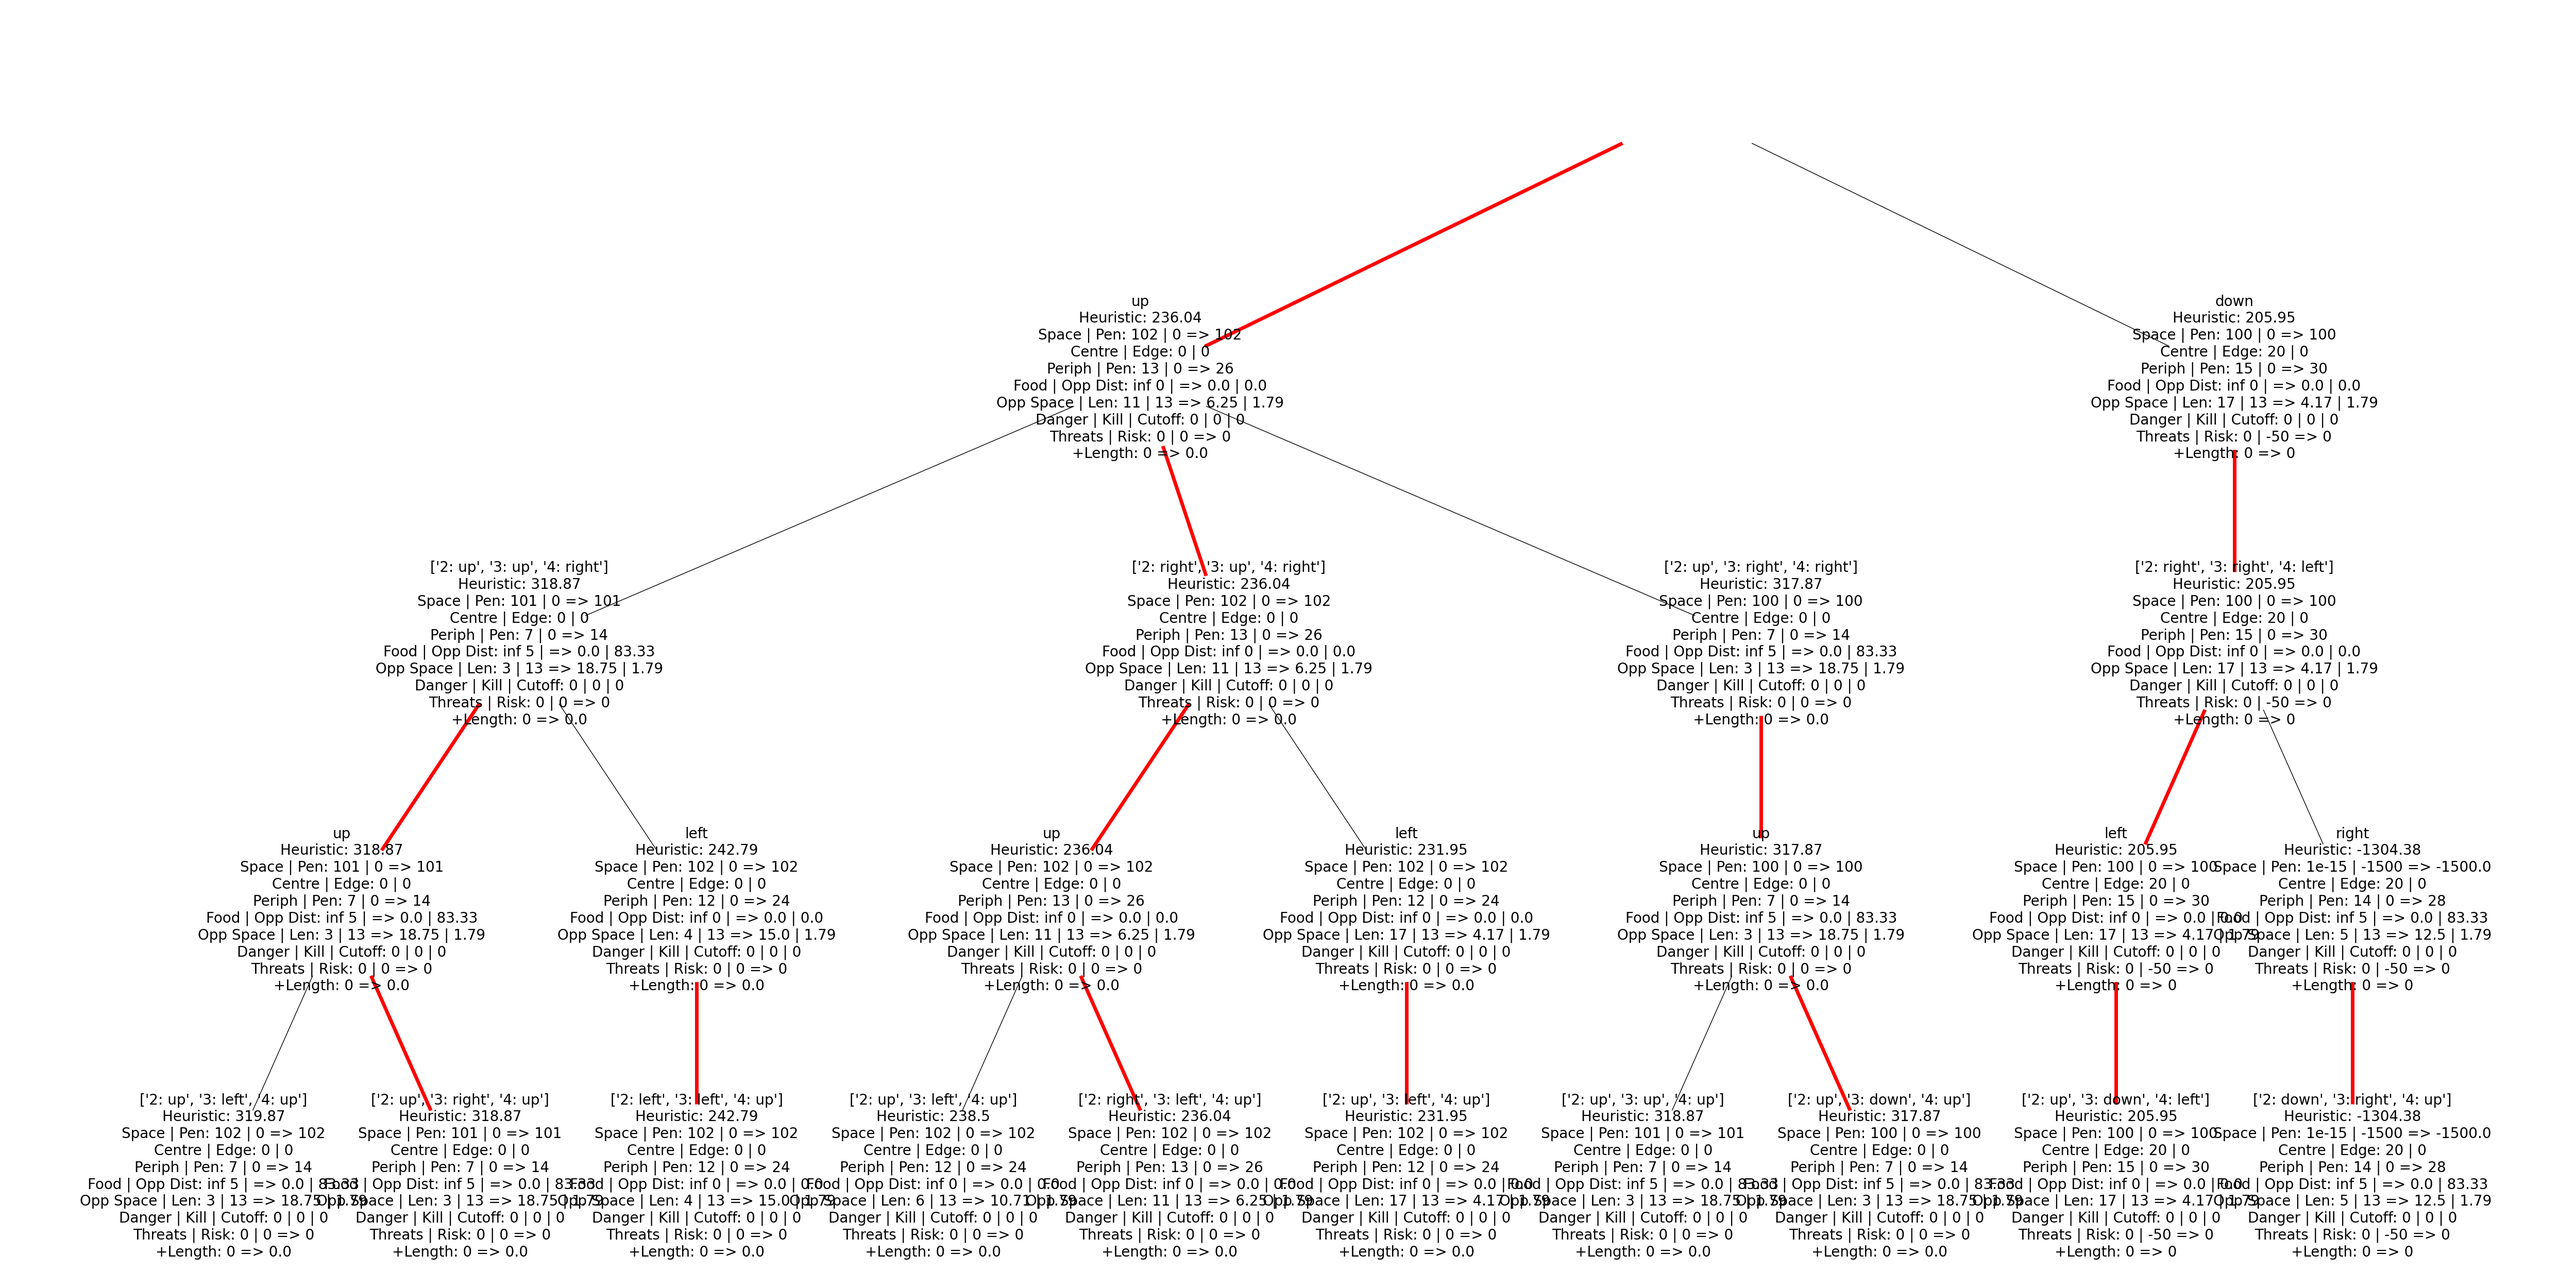
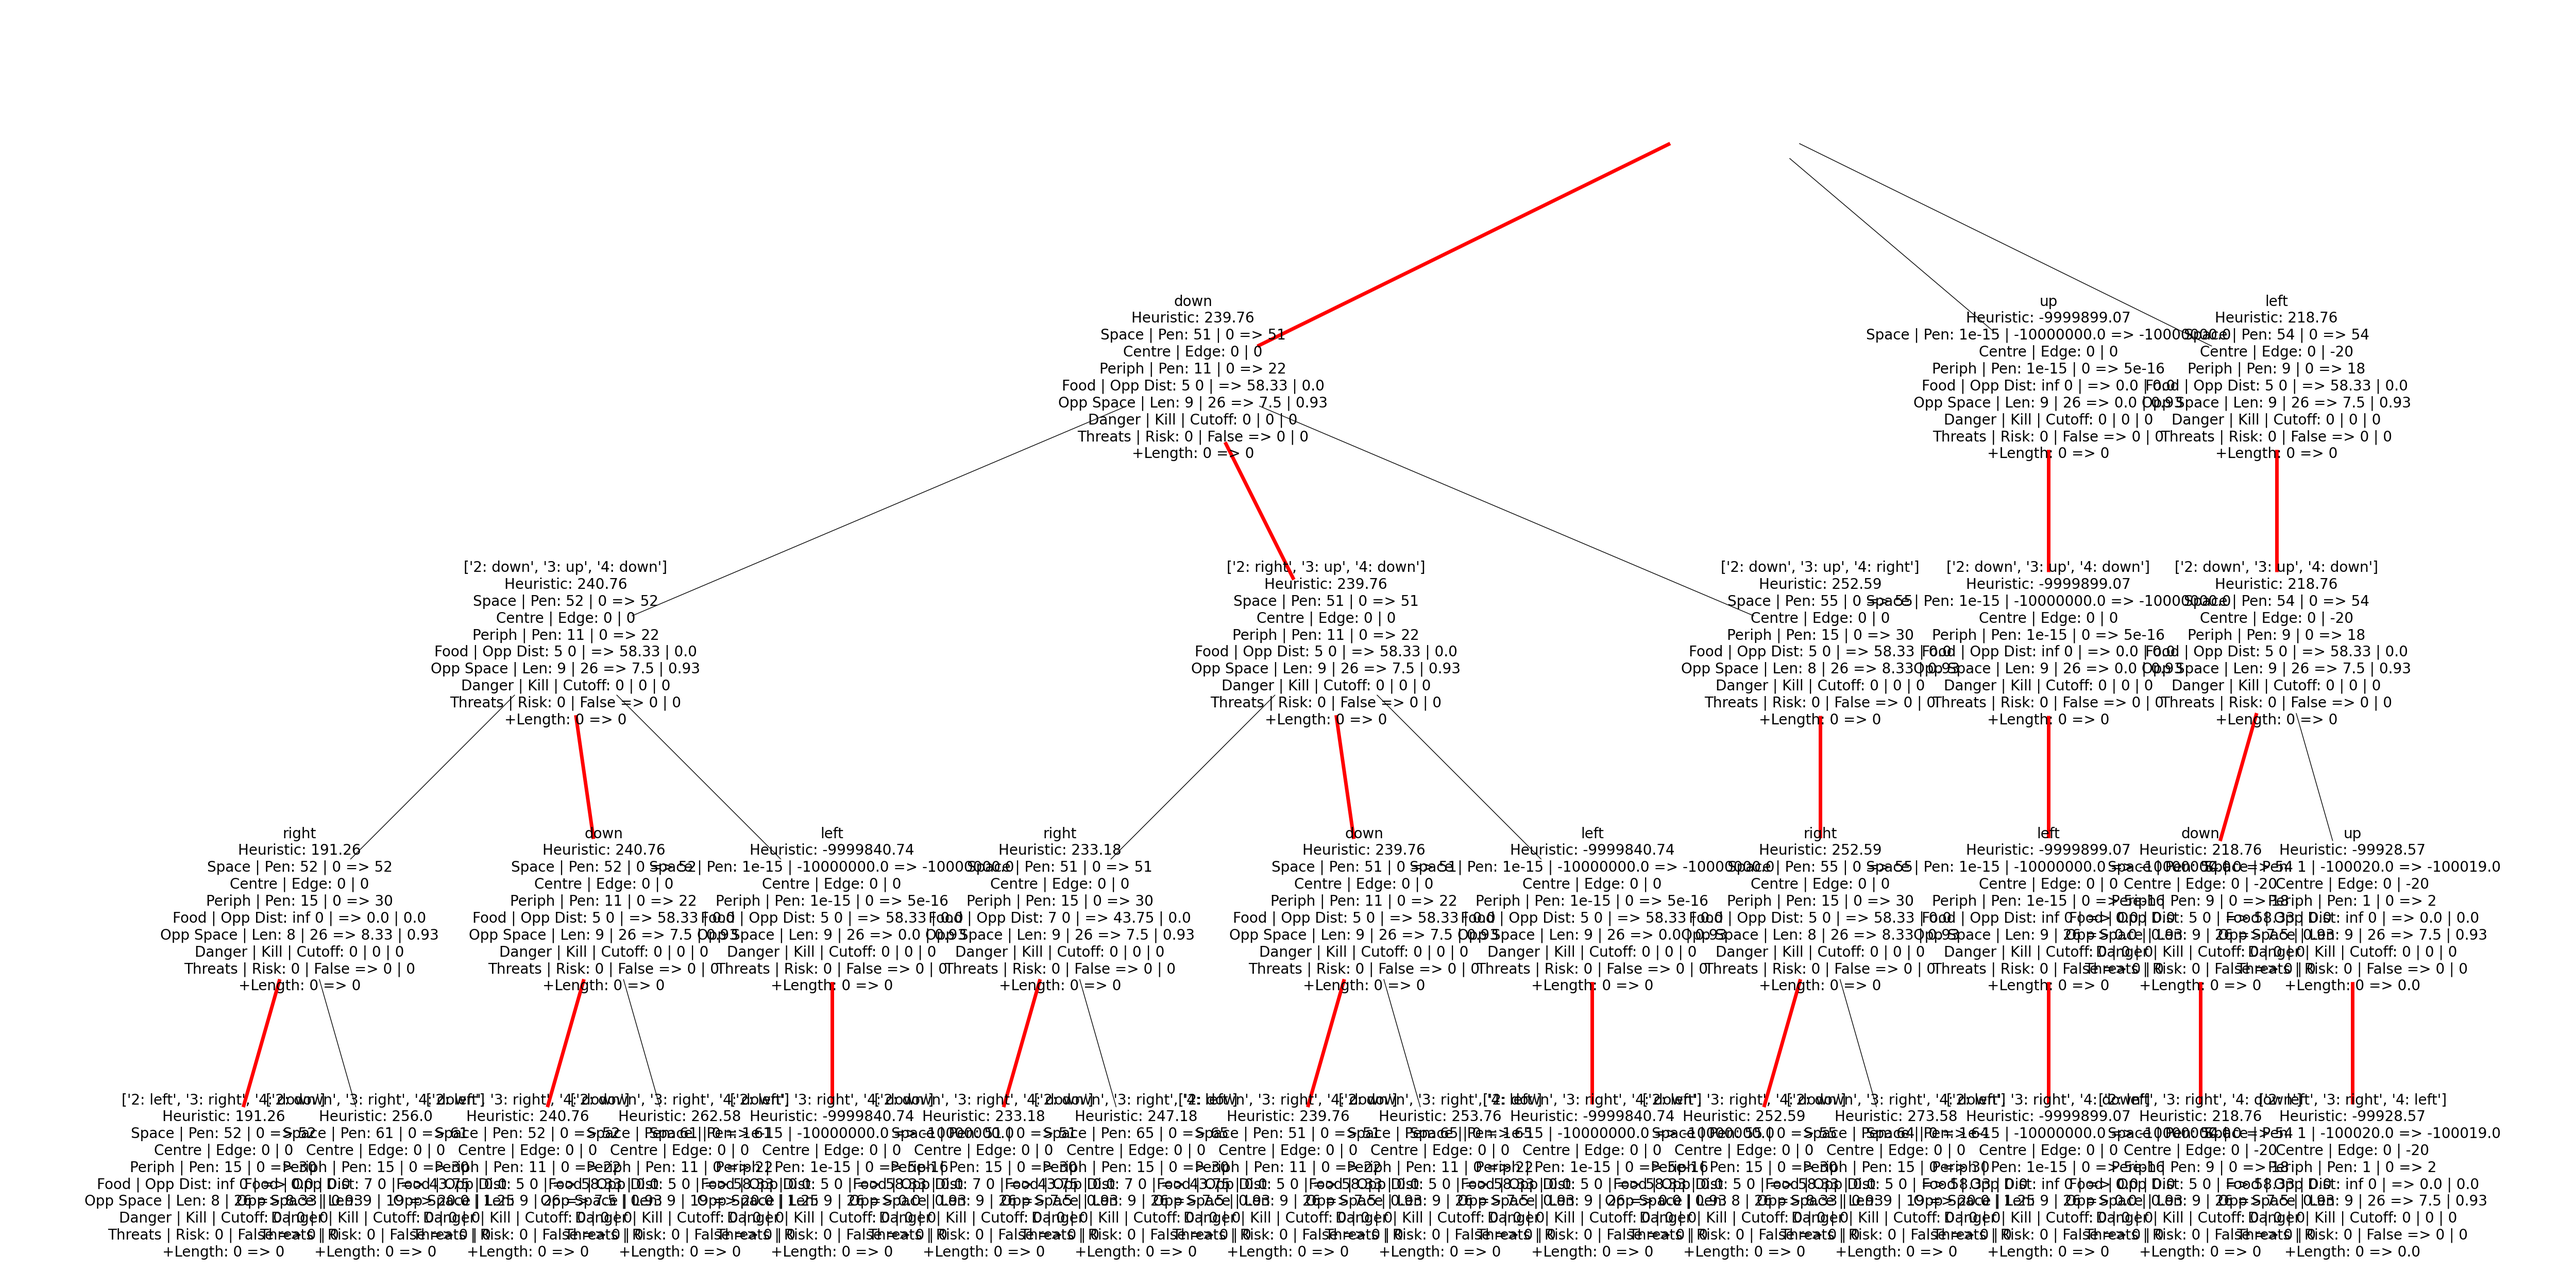
Royale improvements

diff --git a/debugging.py b/debugging.py
@@ -70,6 +70,10 @@ game_state = {"game":{"id":"336d94a2-bea3-4d53-906b-d71364abc623","ruleset":{"na
 # getting stuck and trapped
 game_state = {"game":{"id":"6afe9a7d-983f-4295-9dec-8391324cc487","ruleset":{"name":"standard","version":"?","settings":{"foodSpawnChance":15,"minimumFood":1}},"map":"standard","timeout":500,"source":"ladder"},"turn":81,"board":{"width":11,"height":11,"food":[{"x":2,"y":0},{"x":6,"y":4}],"hazards":[],"snakes":[{"id":"gs_MpPCGFy4rv8QHkyRvBYc6RKM","name":"Kakemonsteret-v2","health":93,"body":[{"x":5,"y":4},{"x":5,"y":5},{"x":5,"y":6},{"x":5,"y":7},{"x":5,"y":8},{"x":5,"y":9},{"x":6,"y":9},{"x":7,"y":9},{"x":7,"y":8},{"x":8,"y":8},{"x":8,"y":9},{"x":9,"y":9},{"x":9,"y":8},{"x":9,"y":7}],"latency":59,"head":{"x":5,"y":4},"length":14,"shout":"","squad":"","customizations":{"color":"#9400d3","head":"default","tail":"default"}},{"id":"gs_6S8tJK8vBhWCbKkJQSyMGD6d","name":"Lancer","health":88,"body":[{"x":2,"y":5},{"x":2,"y":6},{"x":2,"y":7},{"x":2,"y":8},{"x":3,"y":8},{"x":4,"y":8},{"x":4,"y":7},{"x":3,"y":7},{"x":3,"y":6},{"x":3,"y":5}],"latency":454,"head":{"x":2,"y":5},"length":10,"shout":"","squad":"","customizations":{"color":"#3d5a80","head":"nr-rocket","tail":"comet"}},{"id":"gs_Jdv9WSm79yR6k3ckSY8dR3C8","name":"Nightwing","health":100,"body":[{"x":9,"y":2},{"x":8,"y":2},{"x":8,"y":3},{"x":9,"y":3},{"x":10,"y":3},{"x":10,"y":4},{"x":9,"y":4},{"x":9,"y":4}],"latency":391,"head":{"x":9,"y":2},"length":8,"shout":"","squad":"","customizations":{"color":"#1f51ff","head":"workout","tail":"curled"}},{"id":"gs_B8cJpwXYhFDtR8JqYdq8RFJ9","name":"Hovering Hobbs","health":66,"body":[{"x":1,"y":4},{"x":2,"y":4},{"x":2,"y":3},{"x":3,"y":3},{"x":4,"y":3}],"latency":361,"head":{"x":1,"y":4},"length":5,"shout":"","squad":"","customizations":{"color":"#da8a1a","head":"beach-puffin-special","tail":"beach-puffin-special"}}]},"you":{"id":"gs_Jdv9WSm79yR6k3ckSY8dR3C8","name":"Nightwing","health":100,"body":[{"x":9,"y":2},{"x":8,"y":2},{"x":8,"y":3},{"x":9,"y":3},{"x":10,"y":3},{"x":10,"y":4},{"x":9,"y":4},{"x":9,"y":4}],"latency":391,"head":{"x":9,"y":2},"length":8,"shout":"","squad":"","customizations":{"color":"#1f51ff","head":"workout","tail":"curled"}}}
 game_state = {"game":{"id":"b8bb01da-a8ae-4f33-8761-6605401de054","ruleset":{"name":"standard","version":"?","settings":{"foodSpawnChance":15,"minimumFood":1}},"map":"standard","timeout":500,"source":"ladder"},"turn":224,"board":{"width":11,"height":11,"food":[{"x":1,"y":10},{"x":2,"y":10},{"x":10,"y":6},{"x":2,"y":4}],"hazards":[],"snakes":[{"id":"gs_VT636Gtj7tvjprc4Y64KJhB8","name":"Kakemonsteret-v2","health":90,"body":[{"x":8,"y":6},{"x":7,"y":6},{"x":7,"y":7},{"x":7,"y":8},{"x":6,"y":8},{"x":6,"y":7},{"x":6,"y":6},{"x":6,"y":5},{"x":6,"y":4},{"x":6,"y":3},{"x":6,"y":2},{"x":6,"y":1},{"x":7,"y":1},{"x":7,"y":2},{"x":7,"y":3},{"x":7,"y":4},{"x":7,"y":5},{"x":8,"y":5},{"x":8,"y":4}],"latency":49,"head":{"x":8,"y":6},"length":19,"shout":"","squad":"","customizations":{"color":"#9400d3","head":"default","tail":"default"}},{"id":"gs_DRSdKvxHbpYrGj87wjqkh6xH","name":"Nightwing","health":86,"body":[{"x":9,"y":3},{"x":10,"y":3},{"x":10,"y":2},{"x":10,"y":1},{"x":10,"y":0},{"x":9,"y":0},{"x":8,"y":0},{"x":7,"y":0},{"x":6,"y":0},{"x":5,"y":0},{"x":5,"y":1},{"x":4,"y":1},{"x":3,"y":1},{"x":3,"y":0},{"x":2,"y":0},{"x":2,"y":1},{"x":2,"y":2},{"x":3,"y":2}],"latency":168,"head":{"x":9,"y":3},"length":18,"shout":"","squad":"","customizations":{"color":"#1f51ff","head":"workout","tail":"curled"}},{"id":"gs_8PqSvGdW3FbPtyTCFHY3Vht3","name":"Hovering Hobbs","health":75,"body":[{"x":4,"y":4},{"x":4,"y":5},{"x":4,"y":6},{"x":4,"y":7},{"x":3,"y":7},{"x":2,"y":7},{"x":2,"y":8},{"x":2,"y":9}],"latency":368,"head":{"x":4,"y":4},"length":8,"shout":"","squad":"","customizations":{"color":"#da8a1a","head":"beach-puffin-special","tail":"beach-puffin-special"}}]},"you":{"id":"gs_DRSdKvxHbpYrGj87wjqkh6xH","name":"Nightwing","health":86,"body":[{"x":9,"y":3},{"x":10,"y":3},{"x":10,"y":2},{"x":10,"y":1},{"x":10,"y":0},{"x":9,"y":0},{"x":8,"y":0},{"x":7,"y":0},{"x":6,"y":0},{"x":5,"y":0},{"x":5,"y":1},{"x":4,"y":1},{"x":3,"y":1},{"x":3,"y":0},{"x":2,"y":0},{"x":2,"y":1},{"x":2,"y":2},{"x":3,"y":2}],"latency":168,"head":{"x":9,"y":3},"length":18,"shout":"","squad":"","customizations":{"color":"#1f51ff","head":"workout","tail":"curled"}}}
+
+
+# ROYALE
+game_state = {"game":{"id":"f25293a7-6e5e-4101-9f37-ec25f931c627","ruleset":{"name":"standard","version":"?","settings":{"foodSpawnChance":15,"minimumFood":1,"hazardDamagePerTurn":14}},"map":"royale","timeout":500,"source":"ladder"},"turn":70,"board":{"width":11,"height":11,"food":[{"x":0,"y":0},{"x":6,"y":4}],"hazards":[{"x":0,"y":0},{"x":0,"y":1},{"x":0,"y":2},{"x":0,"y":3},{"x":0,"y":4},{"x":0,"y":5},{"x":0,"y":6},{"x":0,"y":7},{"x":0,"y":8},{"x":0,"y":9},{"x":0,"y":10},{"x":1,"y":0},{"x":2,"y":0},{"x":3,"y":0},{"x":4,"y":0},{"x":5,"y":0},{"x":6,"y":0},{"x":7,"y":0},{"x":8,"y":0},{"x":9,"y":0},{"x":10,"y":0}],"snakes":[{"id":"gs_WmfCgFmd4RV4Ymj9QBbhqbh8","name":"Nightwing","health":62,"body":[{"x":1,"y":5},{"x":2,"y":5},{"x":2,"y":6},{"x":3,"y":6},{"x":3,"y":7},{"x":4,"y":7},{"x":5,"y":7}],"latency":209,"head":{"x":1,"y":5},"length":7,"shout":"","squad":"","customizations":{"color":"#1f51ff","head":"workout","tail":"curled"}},{"id":"gs_8W63jC6YhWxHHvTD6XxxXXkW","name":"soma-mini[sink]","health":82,"body":[{"x":6,"y":2},{"x":5,"y":2},{"x":5,"y":3},{"x":6,"y":3},{"x":7,"y":3},{"x":8,"y":3},{"x":8,"y":4}],"latency":426,"head":{"x":6,"y":2},"length":7,"shout":"413","squad":"","customizations":{"color":"#ff0055","head":"snail","tail":"fat-rattle"}},{"id":"gs_MDcft6d6dk6dGyBpYXcS33tG","name":"Hovering Hobbs","health":64,"body":[{"x":0,"y":8},{"x":0,"y":7},{"x":1,"y":7},{"x":1,"y":8},{"x":2,"y":8},{"x":2,"y":9}],"latency":356,"head":{"x":0,"y":8},"length":6,"shout":"","squad":"","customizations":{"color":"#da8a1a","head":"beach-puffin-special","tail":"beach-puffin-special"}},{"id":"gs_WMF66jGVJRTvVXWg4xVHjmVT","name":"Kakemonsteret-v2","health":100,"body":[{"x":9,"y":7},{"x":8,"y":7},{"x":7,"y":7},{"x":6,"y":7},{"x":6,"y":8},{"x":5,"y":8},{"x":5,"y":9},{"x":5,"y":10},{"x":6,"y":10},{"x":7,"y":10},{"x":8,"y":10},{"x":8,"y":9},{"x":8,"y":9}],"latency":54,"head":{"x":9,"y":7},"length":13,"shout":"","squad":"","customizations":{"color":"#9400d3","head":"default","tail":"default"}}]},"you":{"id":"gs_WmfCgFmd4RV4Ymj9QBbhqbh8","name":"Nightwing","health":62,"body":[{"x":1,"y":5},{"x":2,"y":5},{"x":2,"y":6},{"x":3,"y":6},{"x":3,"y":7},{"x":4,"y":7},{"x":5,"y":7}],"latency":209,"head":{"x":1,"y":5},"length":7,"shout":"","squad":"","customizations":{"color":"#1f51ff","head":"workout","tail":"curled"}}}
 b = Battlesnake(game_state, debugging=True, local=True)
 clock_in = time.time_ns()
 print(f"\nBest move: {b.optimal_move()}")

diff --git a/tests/test_edge_cases.py b/tests/test_edge_cases.py
@@ -332,6 +332,12 @@ def test_risk_averse():
 #     next_move = Battlesnake(game_state, local=True).optimal_move()
 #     assert next_move in ["left"]
 
+def test_royale():
+    game_state = {"game":{"id":"5f27830e-3d7e-41c8-8d94-b2fcd2ed99f6","ruleset":{"name":"standard","version":"?","settings":{"foodSpawnChance":15,"minimumFood":1,"hazardDamagePerTurn":14}},"map":"royale","timeout":500,"source":"ladder"},"turn":40,"board":{"width":11,"height":11,"food":[{"x":1,"y":9},{"x":3,"y":7}],"hazards":[{"x":0,"y":0},{"x":1,"y":0},{"x":2,"y":0},{"x":3,"y":0},{"x":4,"y":0},{"x":5,"y":0},{"x":6,"y":0},{"x":7,"y":0},{"x":8,"y":0},{"x":9,"y":0},{"x":10,"y":0}],"snakes":[{"id":"gs_YDrtqv74pf7TJ7rR9D86v3yB","name":"Nightwing","health":70,"body":[{"x":9,"y":1},{"x":9,"y":2},{"x":9,"y":3},{"x":9,"y":4},{"x":9,"y":5},{"x":9,"y":6}],"latency":145,"head":{"x":9,"y":1},"length":6,"shout":"","squad":"","customizations":{"color":"#1f51ff","head":"workout","tail":"curled"}},{"id":"gs_8fvvJg7dY3pyyt9xHwmmxjH3","name":"#!/bin/shnake","health":74,"body":[{"x":10,"y":0},{"x":10,"y":1},{"x":10,"y":2},{"x":10,"y":3},{"x":10,"y":4}],"latency":207,"head":{"x":10,"y":0},"length":5,"shout":"\"food\":[{\"x\":10,\"y\":1}]","squad":"","customizations":{"color":"#2d3a3e","head":"sleepy","tail":"wave"}},{"id":"gs_gxRrdcFgQRwHWYhHGw6ywVS7","name":"CoolerestSnake!","health":90,"body":[{"x":6,"y":2},{"x":6,"y":1},{"x":5,"y":1},{"x":4,"y":1},{"x":3,"y":1},{"x":2,"y":1}],"latency":415,"head":{"x":6,"y":2},"length":6,"shout":"","squad":"","customizations":{"color":"#00ff00","head":"tongue","tail":"sharp"}},{"id":"gs_7WPpk9CGY6yGBP7TKdTgcGwH","name":"Shapeshifter","health":62,"body":[{"x":0,"y":8},{"x":0,"y":7},{"x":0,"y":6},{"x":1,"y":6}],"latency":449,"head":{"x":0,"y":8},"length":4,"shout":"","squad":"","customizations":{"color":"#900050","head":"cosmic-horror-special","tail":"cosmic-horror"}}]},"you":{"id":"gs_YDrtqv74pf7TJ7rR9D86v3yB","name":"Nightwing","health":70,"body":[{"x":9,"y":1},{"x":9,"y":2},{"x":9,"y":3},{"x":9,"y":4},{"x":9,"y":5},{"x":9,"y":6}],"latency":145,"head":{"x":9,"y":1},"length":6,"shout":"","squad":"","customizations":{"color":"#1f51ff","head":"workout","tail":"curled"}}}
+    next_move = Battlesnake(game_state, local=True).optimal_move()
+    assert next_move in ["down"]
+
+
 def test_cutoff():
     # We're gonna get cut off > 2 opps
     game_state = {"game":{"id":"e1a2089e-1ac7-45c0-9905-022ed1c5c19c","ruleset":{"name":"standard","version":"?","settings":{"foodSpawnChance":15,"minimumFood":1}},"map":"standard","timeout":500,"source":"ladder"},"turn":114,"board":{"width":11,"height":11,"food":[{"x":8,"y":1},{"x":9,"y":4},{"x":10,"y":1}],"hazards":[],"snakes":[{"id":"gs_9vXm8Fjk8YdBDxXwXJXjbX9S","name":"Logic baby","health":66,"body":[{"x":3,"y":1},{"x":3,"y":2},{"x":3,"y":3},{"x":3,"y":4},{"x":3,"y":5},{"x":3,"y":6},{"x":3,"y":7},{"x":3,"y":8},{"x":3,"y":9}],"latency":83,"head":{"x":3,"y":1},"length":9,"shout":"","squad":"","customizations":{"color":"#99004d","head":"smart-caterpillar","tail":"mouse"}},{"id":"gs_QR8QGkrXqSFGhXcyBF7WRYrC","name":"Nightwing","health":70,"body":[{"x":9,"y":5},{"x":10,"y":5},{"x":10,"y":6},{"x":10,"y":7},{"x":10,"y":8},{"x":10,"y":9},{"x":10,"y":10},{"x":9,"y":10},{"x":8,"y":10},{"x":7,"y":10},{"x":7,"y":9},{"x":8,"y":9},{"x":9,"y":9}],"latency":192,"head":{"x":9,"y":5},"length":13,"shout":"","squad":"","customizations":{"color":"#3333ff","head":"ski","tail":"mystic-moon"}},{"id":"gs_7ygJ8GCqmtXkdkd6KGMFjqHR","name":"pingo-snake","health":81,"body":[{"x":8,"y":4},{"x":8,"y":5},{"x":7,"y":5},{"x":6,"y":5},{"x":5,"y":5},{"x":4,"y":5},{"x":4,"y":6},{"x":4,"y":7}],"latency":69,"head":{"x":8,"y":4},"length":8,"shout":"","squad":"","customizations":{"color":"#736ccb","head":"beluga","tail":"curled"}}]},"you":{"id":"gs_QR8QGkrXqSFGhXcyBF7WRYrC","name":"Nightwing","health":70,"body":[{"x":9,"y":5},{"x":10,"y":5},{"x":10,"y":6},{"x":10,"y":7},{"x":10,"y":8},{"x":10,"y":9},{"x":10,"y":10},{"x":9,"y":10},{"x":8,"y":10},{"x":7,"y":10},{"x":7,"y":9},{"x":8,"y":9},{"x":9,"y":9}],"latency":192,"head":{"x":9,"y":5},"length":13,"shout":"","squad":"","customizations":{"color":"#3333ff","head":"ski","tail":"mystic-moon"}}}

diff --git a/snake_engine.py b/snake_engine.py
@@ -28,7 +28,8 @@ class Battlesnake:
             og_length: Optional[bool] = None,
             kills_by_depth: Optional[list] = None,
             risky_path: Optional[bool] = False,
-            local: Optional[bool] = False
+            local: Optional[bool] = False,
+            map: Optional[str] = None
     ):
         """
         Represents our Battlesnake game and includes all our decision-making methods
@@ -50,7 +51,7 @@ class Battlesnake:
         # Battlesnake game data
         self.dict = game_state
         # self.game_id = game_state["game"]["id"]
-        # self.map = game_state["game"]["map"]
+        self.map = game_state["game"]["map"] if map is None and "game" in game_state and "map" in game_state["game"] else map
         self.turn = game_state["turn"]
         self.board = Board(game_state)
         self.all_snakes = self.board.all_snakes
@@ -160,6 +161,8 @@ class Battlesnake:
         for snake_id, snake in self.all_snakes.items():
             if snake_id in move_dict:
                 new_snake_dict = snake.make_move(move_dict[snake_id], food_list=self.board.food, return_dict=True)
+                if self.map == "royale" and snake.head.moved_to(move_dict[snake_id]) in self.board.hazards:
+                    new_snake_dict["health"] -= 15
                 all_snakes.append(new_snake_dict)
                 # Repeat for our snake's specific attributes
                 if snake_id == self.you.id:
@@ -180,7 +183,8 @@ class Battlesnake:
             debugging=self.debugging,
             og_length=self.og_length,
             kills_by_depth=self.kills_by_depth.copy(),
-            risky_path=risky_path if not self.risky_path else self.risky_path
+            risky_path=risky_path if not self.risky_path else self.risky_path,
+            map=self.map
         )
 
         # Check if any snakes died as a result of the simulation

diff --git a/Board.py b/Board.py
@@ -90,7 +90,7 @@ class Board:
 
         for h in self.hazards:
             self.board[h.x, h.y] = 255
-            self.graph.remove_node(h.as_tuple())
+            # self.graph.remove_node(h.as_tuple())
 
         for snake_num, snake in enumerate(self.all_snakes.values()):
             skip_tail = snake.body[-2] == snake.tail
@@ -143,7 +143,7 @@ class Board:
             if add_lengths:
                 if j <= len(self.all_snakes):
                     jth_snake = list(self.all_snakes.values())[j - 1]
-                    display_row += f"\t\t\tSnake {j}: {jth_snake.length}"
+                    display_row += f"\t\t\tSnake {j}: {jth_snake.length} | {jth_snake.health}"
             board_str += display_row + "\n"
         board_str += "\n\t " + "  ".join(map(str, np.arange(0, self.width)))
 
@@ -403,9 +403,9 @@ class Board:
         if pos.y < 0 or pos.y >= self.height:
             return False, True
 
-        # Prevent snake from moving into a hazard
-        if pos in self.hazards:
-            return False, True
+        # # Prevent snake from moving into a hazard
+        # if pos in self.hazards:
+        #     return True, False
 
         # Prevent snake from colliding with other snakes. While traversing the minimax search tree, collision rules will
         # differ depending on whose turn it is since our snake makes moves separately from opponent snakes.

diff --git a/main.py b/main.py
@@ -23,8 +23,8 @@ def info() -> typing.Dict:
         "apiversion": "1",
         "author": "G",
         "color": "#1F51FF",
-        "head": "workout",
-        "tail": "curled",
+        "head": "knight",
+        "tail": "ion",
     }
 
 
